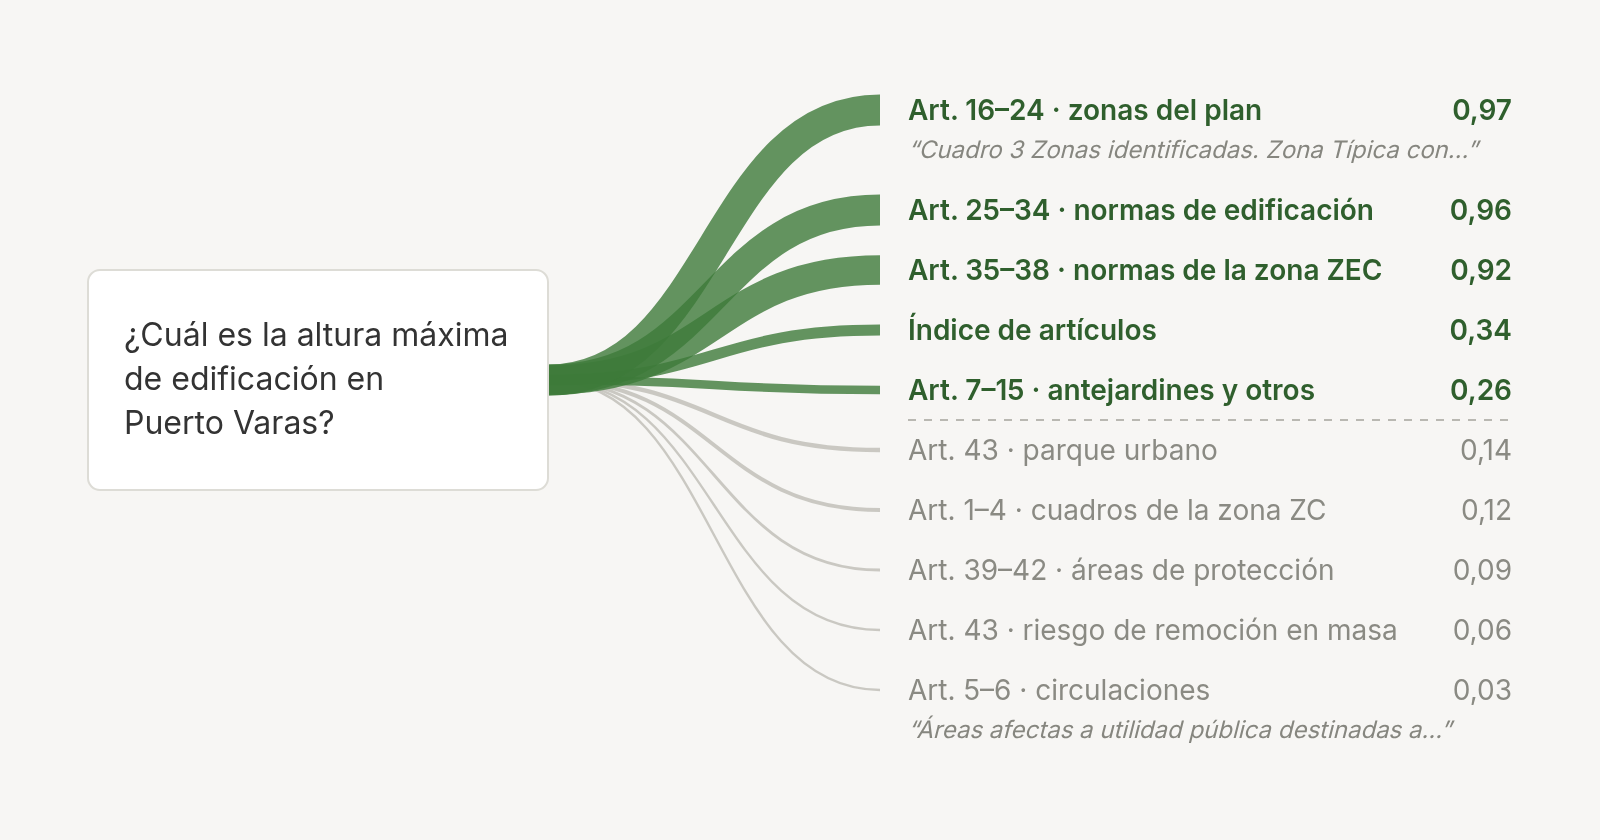
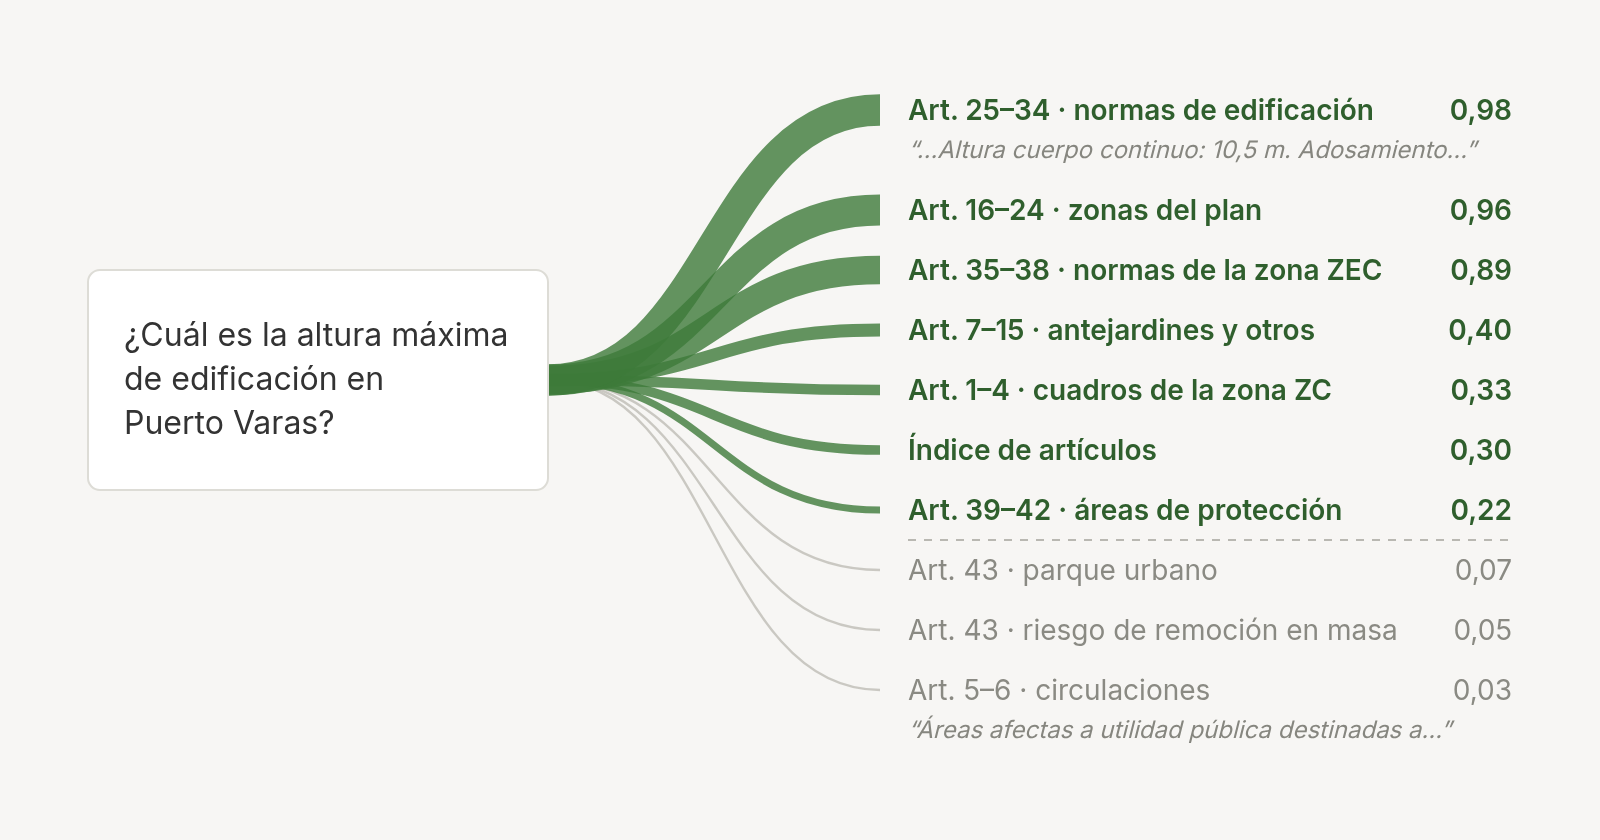
Animate a real Revi turn through Jev's filter in the Jev post

diff --git a/posts/jev/index.md b/posts/jev/index.md
@@ -43,7 +43,9 @@ flowchart TB
   class b3 jev
 ```
 
-![Una búsqueda real en el PRC de Puerto Varas para "¿Cuál es la altura máxima de edificación en Puerto Varas?" trae 10 fragmentos. Jev deja pasar 5 (zonas del plan 0,97, normas de edificación 0,96, normas de la zona ZEC 0,92, índice de artículos 0,34 y antejardines 0,26) y descarta los otros 5, con puntajes entre 0,14 y 0,03.](jev-filtra-busqueda.png "Una búsqueda real con el filtro de Revi. Pasan los fragmentos con 0,2 o más.")
+![Un turno real de Revi: la pregunta "¿Cuál es la altura máxima de edificación en Puerto Varas?" llega al agente, que llama al tool query_prc_puerto_varas. El tool busca en el RAG del PRC de Puerto Varas y vuelven 10 fragmentos. Jev los revisa en 0,6 segundos, pasan 7 de vuelta al agente y los otros 3 no llegan al modelo. El agente responde que no existe una altura máxima única y que en las zonas urbanas comunes varía entre 7 m y 12 m.](flujo-jev.gif)
+
+![De cerca, el filtro de ese mismo turno: de los 10 fragmentos que devolvió la búsqueda en el PRC de Puerto Varas, Jev deja pasar 7 (normas de edificación 0,98, zonas del plan 0,96, normas de la zona ZEC 0,89, antejardines 0,40, cuadros de la zona ZC 0,33, índice de artículos 0,30 y áreas de protección 0,22) y descarta 3 (parque urbano 0,07, riesgo de remoción en masa 0,05 y circulaciones 0,03).](jev-filtra-busqueda.png "De cerca, el filtro de ese mismo turno. Pasan los fragmentos con 0,2 o más.")
 
 En 20 preguntas de Puerto Varas, **los tokens de entrada bajaron 43 % y el costo 38 %**, con prácticamente la misma tasa de aprobación: 18,5 de 20 contra 19. Donde más se filtra es en los planes reguladores (a.k.a. PRC): de diez fragmentos por búsqueda, suelen servir dos.
 
